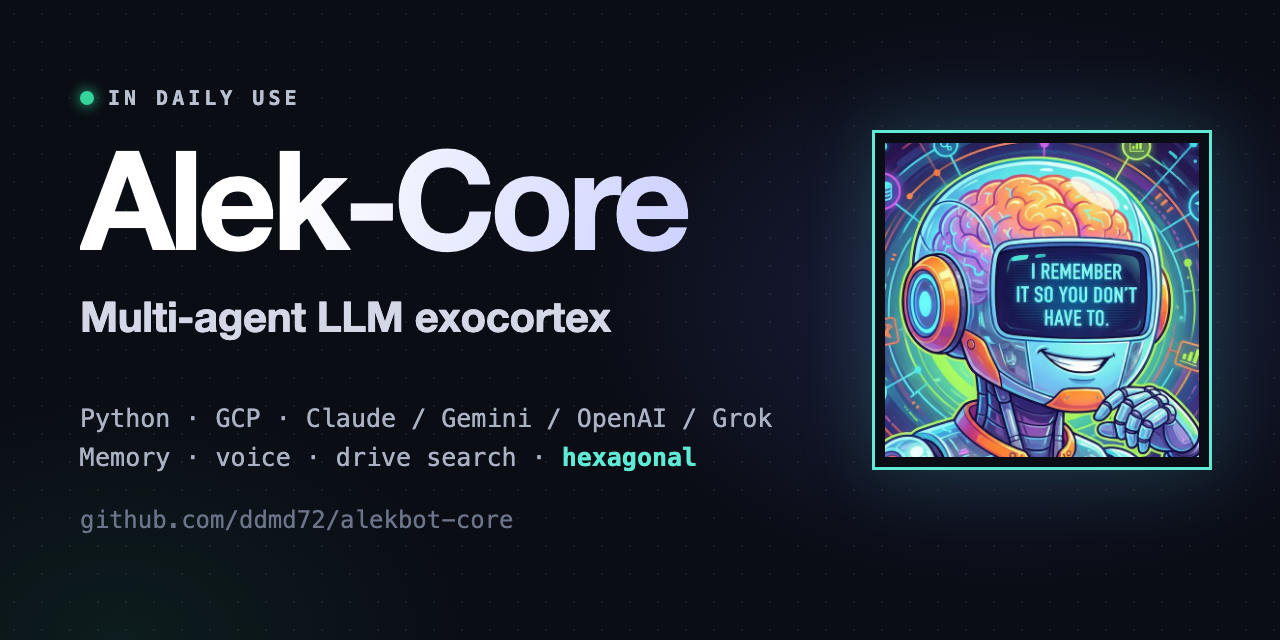
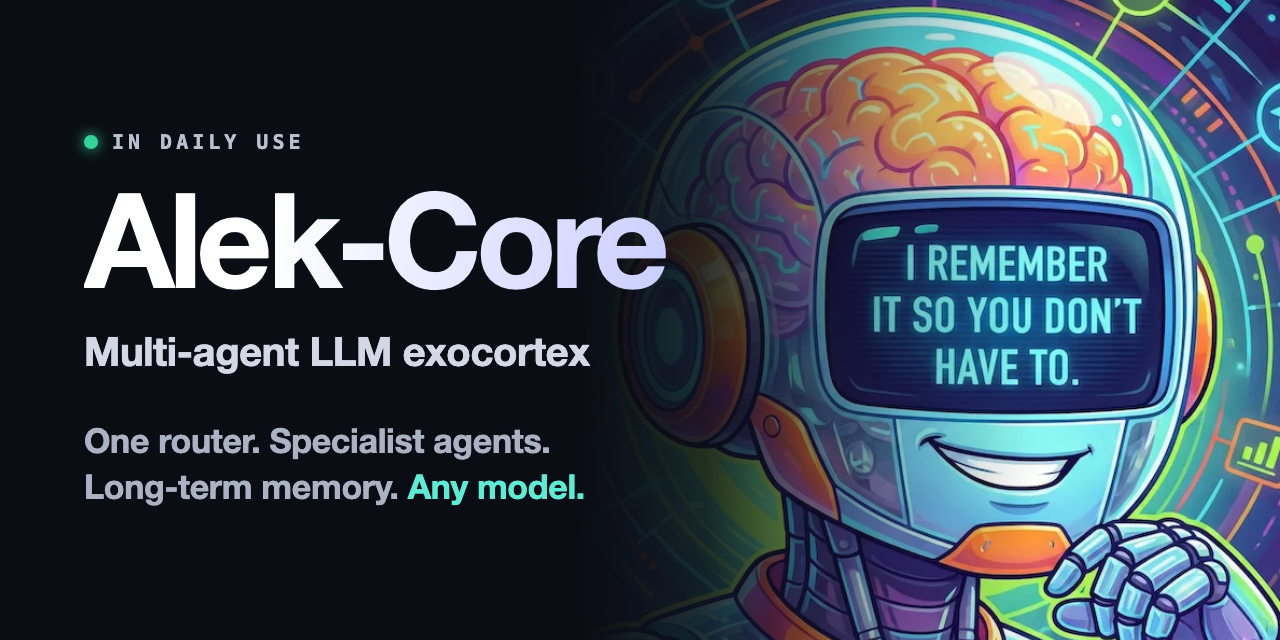
feat(web): keep the router diagram in the hero; the robot fronts the memory section
The owner prefers the router diagram as the hero art. The avatar moves
next to 'Not a chatbot. A system that remembers.' (its visor says the
same thing), and the share image becomes a full-bleed robot with a
four-claim tagline.

diff --git a/src/web/static/landing.html b/src/web/static/landing.html
@@ -44,6 +44,9 @@ p,h1,h2,h3{text-wrap:pretty}
 .label b{color:var(--mint);font-weight:500}
 h2{font-size:clamp(28px,4vw,46px);line-height:1.08;letter-spacing:-.02em;font-weight:700;max-width:22ch;color:#fff}
 .body{color:var(--muted);font-size:clamp(17px,1.5vw,19px);max-width:62ch}
+.memory{display:grid;grid-template-columns:minmax(0,1fr) minmax(0,300px);gap:32px 56px;align-items:center}
+.avatar{border:2px solid var(--mint);padding:8px;background:var(--bg);box-shadow:0 0 60px rgba(94,234,212,.10)}
+.avatar img{display:block;width:100%;height:auto}
 
 /* nav */
 .nav{position:sticky;top:0;z-index:50;display:flex;align-items:center;justify-content:space-between;gap:16px;padding:14px var(--pad);background:rgba(10,13,20,.86);-webkit-backdrop-filter:blur(12px);backdrop-filter:blur(12px);border-bottom:2px solid var(--rule)}
@@ -63,8 +66,7 @@ html{scroll-behavior:smooth}
 .hero-art{border-left:2px solid var(--rule);display:flex;align-items:center;justify-content:center;padding:32px;background:
   linear-gradient(var(--rule) 1px,transparent 1px) 0 0/40px 40px,
   linear-gradient(90deg,var(--rule) 1px,transparent 1px) 0 0/40px 40px;background-color:var(--bg)}
-.avatar{width:100%;max-width:420px;border:2px solid var(--mint);background:var(--bg);padding:10px;box-shadow:0 0 0 10px var(--bg),0 0 60px rgba(94,234,212,.12)}
-.avatar img{display:block;width:100%;height:auto}
+.hero-art svg{width:100%;max-width:440px;height:auto;background:var(--bg)}
 .live{display:inline-flex;align-items:center;gap:10px;font-family:var(--mono);font-size:12px;letter-spacing:.14em;color:var(--live);border:2px solid var(--rule);padding:6px 12px}
 .dot{position:relative;width:8px;height:8px;background:var(--live);border-radius:50%}
 .dot::after{content:"";position:absolute;inset:-4px;border-radius:50%;border:1px solid var(--live);animation:ping 2.4s ease-out infinite}
@@ -84,6 +86,12 @@ h1{font-size:clamp(56px,10vw,120px);line-height:.92;letter-spacing:-.045em;font-
 .stack{font-family:var(--mono);font-size:13px;color:var(--dim);display:flex;flex-wrap:wrap;gap:6px 10px;padding-top:20px;border-top:2px solid var(--rule);width:100%}
 .stack span{color:var(--muted)}
 
+/* hub diagram */
+.ray{stroke:var(--rule-strong);stroke-width:1.5}
+.pulse{stroke:var(--mint);stroke-width:2;stroke-dasharray:10 300;stroke-dashoffset:10;animation:flow 3.6s linear infinite}
+@keyframes flow{to{stroke-dashoffset:-150}}
+.node{fill:var(--bg);stroke:var(--rule-strong);stroke-width:2}
+.node-lbl{font-family:var(--mono);font-size:11px;fill:var(--muted);letter-spacing:.04em}
 
 /* cycle */
 .cycle{display:grid;grid-template-columns:repeat(3,minmax(0,1fr));gap:2px;background:var(--rule);border:2px solid var(--rule);margin-top:48px}
@@ -121,11 +129,12 @@ footer a:hover{color:var(--text)}
 @media (max-width:960px){
   .hero{grid-template-columns:1fr}
   .hero-art{border-left:0;border-top:2px solid var(--rule);padding:24px}
-  .avatar{max-width:360px}
+  .hero-art svg{max-width:360px}
   .grid{grid-template-columns:repeat(2,minmax(0,1fr))}
 }
 @media (max-width:720px){
-  .split,.row{grid-template-columns:1fr}
+  .split,.row,.memory{grid-template-columns:1fr}
+  .avatar{max-width:320px}
   .cycle,.grid{grid-template-columns:1fr}
   .row{gap:8px}
   .nav-links .opt{display:none}
@@ -134,7 +143,8 @@ footer a:hover{color:var(--text)}
 }
 @media (prefers-reduced-motion:reduce){
   html{scroll-behavior:auto}
-  .dot::after{animation:none}
+  .pulse,.dot::after{animation:none}
+  .pulse{display:none}
 }
 </style>
 </head>
@@ -170,16 +180,65 @@ footer a:hover{color:var(--text)}
     <p class="stack"><span>Python</span>·<span>GCP</span>·<span>Claude / Gemini / OpenAI / Grok</span>·<span>Hexagonal</span></p>
   </div>
 
-  <div class="hero-art">
-    <figure class="avatar"><img src="/alek.jpg" width="650" height="650" alt="Alek, a robot with a visible brain; its visor reads: I remember it so you don't have to."></figure>
+  <div class="hero-art" aria-hidden="true">
+    <svg viewBox="0 0 400 400" role="img">
+      <circle cx="200" cy="200" r="150" fill="none" stroke="#1d2330" stroke-width="1" stroke-dasharray="2 6"></circle>
+      <circle cx="200" cy="200" r="90" fill="none" stroke="#1d2330" stroke-width="1"></circle>
+      <g class="rays">
+        <line class="ray" x1="200" y1="200" x2="200" y2="50"></line>
+        <line class="ray" x1="200" y1="200" x2="306" y2="94"></line>
+        <line class="ray" x1="200" y1="200" x2="350" y2="200"></line>
+        <line class="ray" x1="200" y1="200" x2="306" y2="306"></line>
+        <line class="ray" x1="200" y1="200" x2="200" y2="350"></line>
+        <line class="ray" x1="200" y1="200" x2="94" y2="306"></line>
+        <line class="ray" x1="200" y1="200" x2="50" y2="200"></line>
+        <line class="ray" x1="200" y1="200" x2="94" y2="94"></line>
+      </g>
+      <g>
+        <line class="pulse" x1="200" y1="200" x2="200" y2="50" style="animation-delay:0s"></line>
+        <line class="pulse" x1="200" y1="200" x2="306" y2="94" style="animation-delay:-2.1s"></line>
+        <line class="pulse" x1="200" y1="200" x2="350" y2="200" style="animation-delay:-0.9s"></line>
+        <line class="pulse" x1="200" y1="200" x2="306" y2="306" style="animation-delay:-3.0s"></line>
+        <line class="pulse" x1="200" y1="200" x2="200" y2="350" style="animation-delay:-1.5s"></line>
+        <line class="pulse" x1="200" y1="200" x2="94" y2="306" style="animation-delay:-2.6s"></line>
+        <line class="pulse" x1="200" y1="200" x2="50" y2="200" style="animation-delay:-0.4s"></line>
+        <line class="pulse" x1="200" y1="200" x2="94" y2="94" style="animation-delay:-1.9s"></line>
+      </g>
+      <g>
+        <rect class="node" x="193" y="43" width="14" height="14"></rect>
+        <rect class="node" x="299" y="87" width="14" height="14"></rect>
+        <rect class="node" x="343" y="193" width="14" height="14"></rect>
+        <rect class="node" x="299" y="299" width="14" height="14"></rect>
+        <rect class="node" x="193" y="343" width="14" height="14"></rect>
+        <rect class="node" x="87" y="299" width="14" height="14"></rect>
+        <rect class="node" x="43" y="193" width="14" height="14"></rect>
+        <rect class="node" x="87" y="87" width="14" height="14"></rect>
+      </g>
+      <g class="node-lbl">
+        <text x="200" y="32" text-anchor="middle">smart</text>
+        <text x="320" y="84">search</text>
+        <text x="364" y="186" text-anchor="end" dy="-6">email</text>
+        <text x="320" y="326">drive</text>
+        <text x="200" y="376" text-anchor="middle">docs</text>
+        <text x="80" y="326" text-anchor="end">research</text>
+        <text x="36" y="186" text-anchor="start" dy="-6">media</text>
+        <text x="80" y="84" text-anchor="end">memory</text>
+      </g>
+      <rect x="168" y="168" width="64" height="64" fill="#0a0d14" stroke="#5eead4" stroke-width="2"></rect>
+      <rect x="192" y="192" width="16" height="16" fill="#5eead4"></rect>
+      <text x="200" y="250" text-anchor="middle" font-family="ui-monospace,Menlo,Consolas,monospace" font-size="11" fill="#5eead4" letter-spacing=".08em">ROUTER</text>
+    </svg>
   </div>
 </section>
 
 <section class="sec split" id="memory" aria-labelledby="s1">
   <p class="label"><b>01</b> / Memory</p>
-  <div style="display:flex;flex-direction:column;gap:24px">
-    <h2 id="s1">Not a chatbot. A system that remembers.</h2>
-    <p class="body">Every conversation produces facts: preferences, events, decisions, principles. Alek-Core extracts them in the background, deduplicates them against what it already knows, and uses them in every future answer. The more you talk to it, the less you have to explain.</p>
+  <div class="memory">
+    <div style="display:flex;flex-direction:column;gap:24px">
+      <h2 id="s1">Not a chatbot. A system that remembers.</h2>
+      <p class="body">Every conversation produces facts: preferences, events, decisions, principles. Alek-Core extracts them in the background, deduplicates them against what it already knows, and uses them in every future answer. The more you talk to it, the less you have to explain.</p>
+    </div>
+    <figure class="avatar"><img src="/alek.jpg" width="650" height="650" loading="lazy" alt="Alek, a robot with a visible brain; its visor reads: I remember it so you don't have to."></figure>
   </div>
 </section>
 
